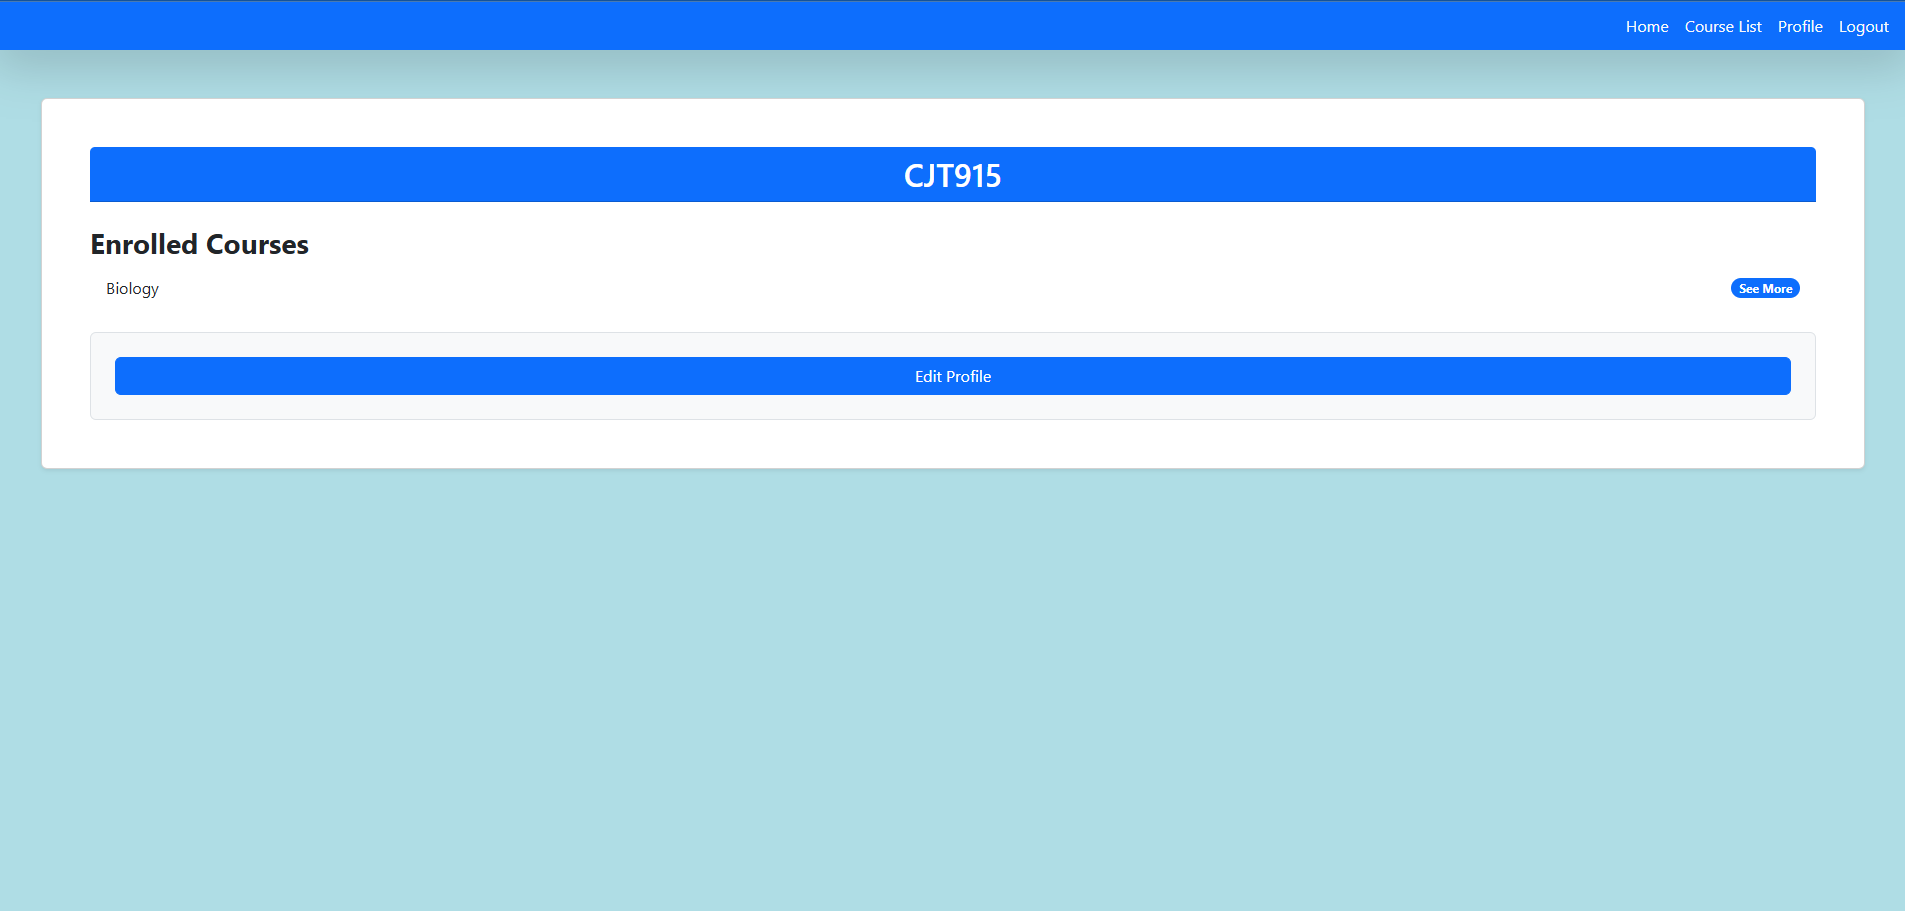
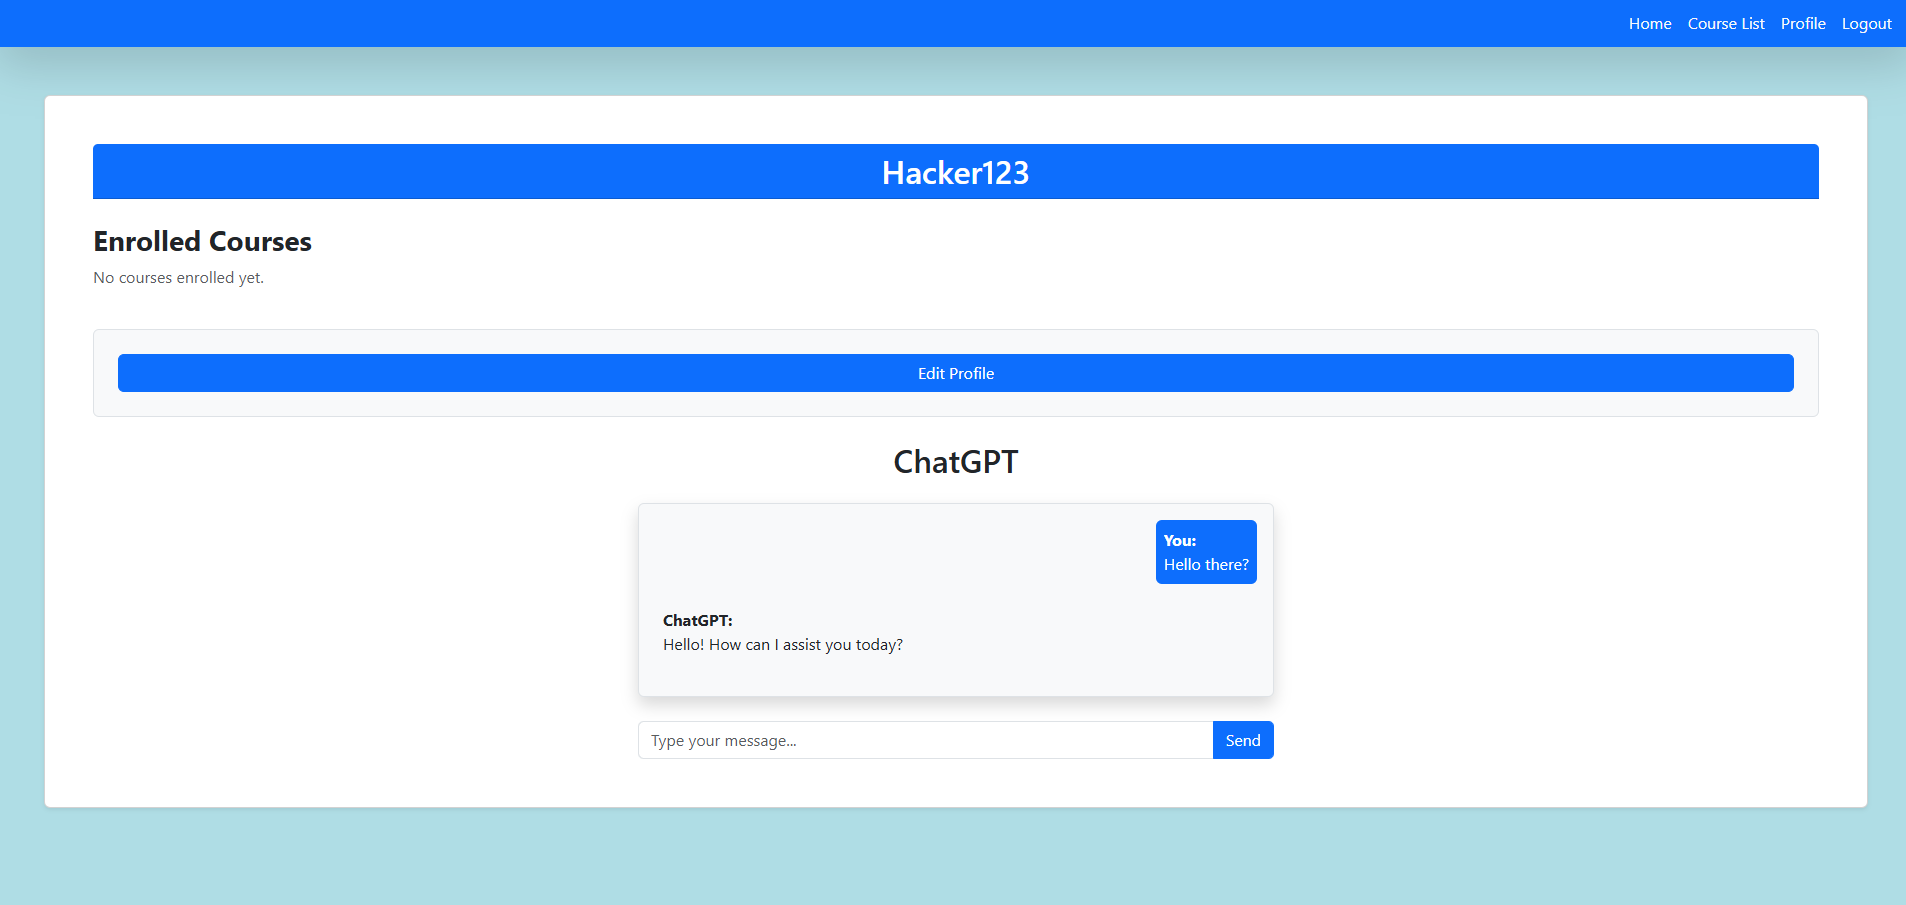
Added fully functional  course grading input card in the profile page

diff --git a/client/src/components/gradeInput.jsx b/client/src/components/gradeInput.jsx
@@ -1,0 +1,103 @@
+import React, { useState } from "react";
+
+const GradeInput = () => {
+  const [midterm1, setMidterm1] = useState(0);
+  const [midterm2, setMidterm2] = useState(0);
+  const [finalExam, setFinalExam] = useState(0);
+  const [assignments, setAssignments] = useState([0]); // Array to store assignment grades
+
+  // Calculate the total grade
+  const calculateTotal = () => {
+    const assignmentTotal = assignments.reduce((acc, grade) => acc + parseFloat(grade || 0), 0);
+    return parseFloat(midterm1) + parseFloat(midterm2) + parseFloat(finalExam) + assignmentTotal;
+  };
+
+  // Handle assignment grade changes
+  const handleAssignmentChange = (index, value) => {
+    const updatedAssignments = [...assignments];
+    updatedAssignments[index] = value;
+    setAssignments(updatedAssignments);
+  };
+
+  // Add a new assignment input
+  const addAssignment = () => {
+    setAssignments([...assignments, 0]);
+  };
+
+  // Remove an assignment input
+  const removeAssignment = (index) => {
+    const updatedAssignments = assignments.filter((_, i) => i !== index);
+    setAssignments(updatedAssignments);
+  };
+
+  return (
+    <div className="container mt-4">
+    <div className="card shadow-lg">
+      <div className="card-header bg-primary text-white">
+        <h2 className="card-title mb-0">Course Grades Input</h2>
+      </div>
+      <div className="card-body">
+        <div className="mb-3">
+          <label className="form-label">Midterm 1:</label>
+          <input
+            type="number"
+            className="form-control"
+            value={midterm1}
+            onChange={(e) => setMidterm1(e.target.value)}
+          />
+        </div>
+
+        <div className="mb-3">
+          <label className="form-label">Midterm 2:</label>
+          <input
+            type="number"
+            className="form-control"
+            value={midterm2}
+            onChange={(e) => setMidterm2(e.target.value)}
+          />
+        </div>
+
+        <div className="mb-3">
+          <label className="form-label">Final Exam:</label>
+          <input
+            type="number"
+            className="form-control"
+            value={finalExam}
+            onChange={(e) => setFinalExam(e.target.value)}
+          />
+        </div>
+
+        <h3 className="mt-4">Assignments</h3>
+        {assignments.map((grade, index) => (
+          <div className="d-flex align-items-center mb-2" key={index}>
+            <label className="form-label me-2">
+              Assignment {index + 1}:
+            </label>
+            <input
+              type="number"
+              className="form-control w-50 me-2"
+              value={grade}
+              onChange={(e) => handleAssignmentChange(index, e.target.value)}
+            />
+            <button
+              className="btn btn-danger btn-sm"
+              onClick={() => removeAssignment(index)}
+            >
+              - Remove
+            </button>
+          </div>
+        ))}
+        <button className="btn btn-success mb-4" onClick={addAssignment}>
+          + Add Assignment
+        </button>
+
+        <hr />
+
+        <h3>Total Grade: {calculateTotal().toFixed(2)/ 3.0}</h3>
+      </div>
+    </div>
+  </div>
+  );
+};
+
+export default GradeInput;

diff --git a/client/src/components/pages/Profile.jsx b/client/src/components/pages/Profile.jsx
@@ -6,6 +6,8 @@ import { QUERY_USER } from '../../utils/queries';
 import ListItem from '../ListItem';
 import AuthService from '../../utils/auth';
 import Chat from '../Chat';
+import Grad from '../gradeInput';
+
 const User = () => {
   const { _id } = useParams(); // Get user ID from URL params
 
@@ -163,7 +165,8 @@ const User = () => {
     //     )}
     //   </div>
     // </div>
-    <div className="card m-5 shadow-sm p-5">
+    <div >
+    <div className=" card m-5 shadow-sm p-5">
   <h2 className="card-header text-center bg-primary text-white mb-4">{user.username}</h2>
 
   <div className="mb-4">
@@ -249,8 +252,14 @@ const User = () => {
       </>
     )}
   </div>
-    <Chat/>
-</div>
+  <div>
+  <Chat/>
+  </div>
+  </div>
+  <div>
+    <Grad/>
+  </div>
+ </div>
   );
 };
 
